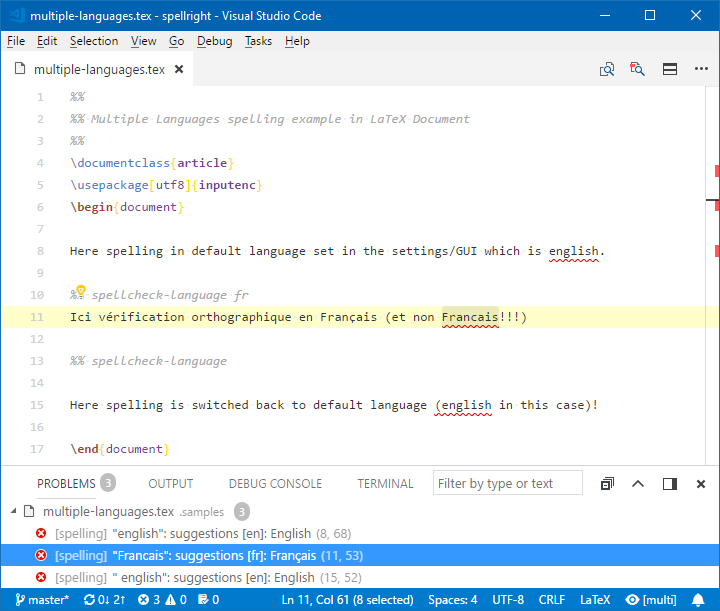
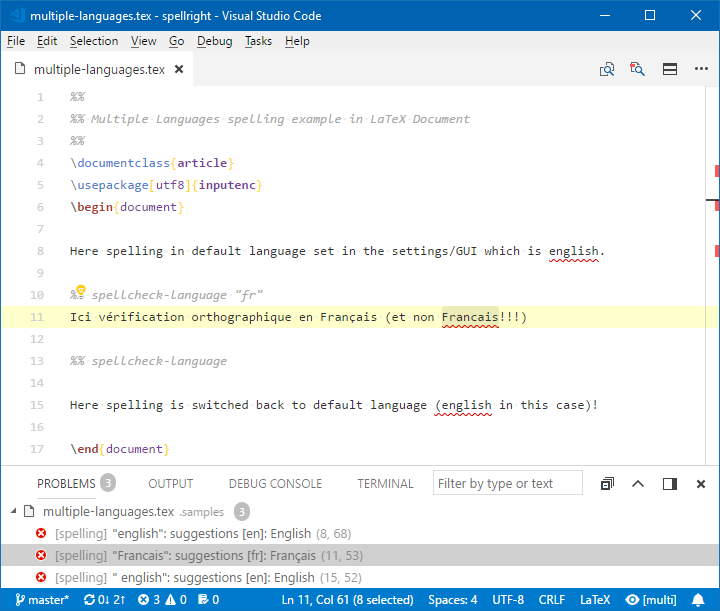
Incorrect dictionary name in block comments (#151)

Changed region(s): [[0.0, 0.8707, 1.0, 0.9329], [0.3056, 0.4664, 0.3667, 0.4975]]

diff --git a/src/spellright.js b/src/spellright.js
@@ -488,8 +488,10 @@ var SpellRight = (function () {
     };
 
     SpellRight.prototype.checkDictionary = function (dictionary) {
-        var result = false;
 
+        if (typeof dictionary === 'undefined') return false;
+
+        var result = false;
         dictionaries.forEach(function (entry) {
             // Adjust for various LANGUAGE-COUNTRY separators ("_" or "-")
             var _dictionary = dictionary.replace(/_/g, '-');
@@ -1075,7 +1077,7 @@ var SpellRight = (function () {
             if (command === 'on') {
                 helpers._commands.force = true;
             }
-            if (command === 'language' && typeof parameters !== 'undefined' && parameters !== '') {
+            if (command === 'language') {
                 if (_this.checkDictionary(parameters)) {
                     helpers._commands.languages.pushIfNotExist(parameters, function (e) {
                         return e === parameters;
@@ -1271,7 +1273,7 @@ var SpellRight = (function () {
             if (command === 'on') {
                 helpers._commands.force = true;
             }
-            if (command === 'language' && typeof parameters !== 'undefined' && parameters !== '') {
+            if (command === 'language') {
                 if (_this.checkDictionary(parameters)) {
                     helpers._commands.languages.pushIfNotExist(parameters, function (e) {
                         return e === parameters;

diff --git a/lib/parser.js b/lib/parser.js
@@ -19,7 +19,7 @@ global.LEXEM_SPELL = /[\s,!\\?\*\/:\[\]\{\}\"\`\+\<\>\;\=\#\$\&\%\^\@\|\~\uff0c\
 //
 // off
 // on
-// language [language|language-region|dictionary]
+// language "[language|language-region|dictionary]"
 //
 // ## Commands TO CONSIDER
 //
@@ -30,16 +30,17 @@ global.LEXEM_SPELL = /[\s,!\\?\*\/:\[\]\{\}\"\`\+\<\>\;\=\#\$\&\%\^\@\|\~\uff0c\
 //
 // Quoting in Markdown: <code>spellcheck&#8208;language&nbsp;en-US</code>
 // -----------------------------------------------------------------------------
-global.COMMAND = /spellcheck[-|:][\s]*([a-zA-Z]+)(?:[ ]*)(.*)$/gm;
+global.COMMAND = /spellcheck(?:-|:[\s]*)([\w]+)\s+\"([^\"]*)\"/g;
 
 // -----------------------------------------------------------------------------
 // Special command form for LaTeX parser to parse LaTeX 'magic comments’.
 // Extracts only one command which allows to change spelling language and is
-// functional equivalent of:
+// functional equivalent of: spellcheck-language "CODE".
 //
-// spellcheck-language [parameter]
+// !TEX spellcheck = "CODE"
+//
 // -----------------------------------------------------------------------------
-global.COMMAND_TEX = /!TEX[\s]+spellcheck[\s]*=[\s]*(.*)/ig;
+global.COMMAND_TEX = /\!TEX[\s]+spellcheck[\s]*\=[\s]*\"([^\"]*)\"/g;
 
 String.prototype.replaceAt = function (index, character) {
     return this.substr(0, index) + character + this.substr(index + character.length);

diff --git a/lib/parsers/latex.js b/lib/parsers/latex.js
@@ -100,6 +100,12 @@ class LaTeX extends Parser.default {
         var re = /\!TEX.*/gi;
         var match;
         while (match = re.exec(text)) {
+
+            // Skip magic comment(s) serviced by the extension
+            var _command_tex = COMMAND_TEX;
+            var _command_tex_m = _command_tex.exec(text);
+            if (_command_tex_m && match.index != _command_tex_m) continue;
+
             var replace = ' '.repeat(match[0].length);
             text = text.replaceAt(match.index, replace);
         }
@@ -148,6 +154,7 @@ class LaTeX extends Parser.default {
         var _command_m = _command.exec(text);
 
         var _command_tex = COMMAND_TEX;
+        _command_tex.lastIndex = 0;
         var _command_tex_m = _command_tex.exec(text);
 
         var context = 'body';

diff --git a/lib/parsers/code.js b/lib/parsers/code.js
@@ -250,8 +250,7 @@ class Standard extends Parser.default {
                     _colcount += _command_m[0].length;
                     _pos += _command_m[0].length;
                     _command.lastIndex = _pos;
-                    if (typeof interpretCommand === "function")
-                        interpretCommand(_command_m[1], _command_m[2], _range);
+                    interpretCommand(_command_m[1], _command_m[2], _range);
                     continue;
                 }
             }

diff --git a/README.md b/README.md
@@ -325,9 +325,9 @@ assigns parser of generic type `code` (Source Code Parser) to `perl` (Perl) docu
 
 Beside global settings following commands can be embedded inside spelled parts of the document (e.g.: comments, strings etc.):
 
-<code>spellcheck&#x2d;language&nbsp;CODE</code> (alternative syntax: <code>spellcheck:&nbsp;language&nbsp;CODE</code> and `!TEX spellcheck = CODE` in comment areas of `latex` document class only)
+<code>spellcheck&#x2d;language&nbsp;"CODE"</code> (alternative syntax: <code>spellcheck:&nbsp;language&nbsp;"CODE"</code> and `!TEX spellcheck = "CODE"` in comment areas of `latex` document class only)
 
-Forces **switching spelling language** for the following part of the document or until next <code>spellcheck&#x2d;language&nbsp;CODE</code> command. `CODE` is language code according to used spellcheck background service, typically in a LANGUAGE or LANGUAGE-COUNTRY format (e.g.: "en", "fr", "en-US", "en-GB", "fr-CA", "pl-PL" etc.) If `CODE` is empty switches **back to default spelling language**.
+Forces **switching spelling language** for the following part of the document or until next <code>spellcheck&#x2d;language&nbsp;"CODE"</code> command. `CODE` is language code according to used spellcheck background service, typically in a LANGUAGE or LANGUAGE-COUNTRY format (e.g.: "en", "fr", "en-US", "en-GB", "fr-CA", "pl-PL" etc.) If `CODE` is empty switches **back to default spelling language**.
 
 In-Document commands for switching spelling language have highest priority over `settings.languageContextByClass` and `settings.languageContext` and `settings.language` configuration items.
 

diff --git a/CHANGELOG.md b/CHANGELOG.md
@@ -1,5 +1,10 @@
 # Change Log
 
+## **2.3.4** released on 7th May 2018
+
+- **Change:** LaTeX 'magic comment' (`!TEX spellcheck = "CODE"`) changed as consequence of ([#151](https://github.com/bartosz-antosik/vscode-spellright/issues/151)) requires language code in double quotes.
+- **Fix:** Incorrect dictionary name in block comments ([#151](https://github.com/bartosz-antosik/vscode-spellright/issues/151)). This changes the syntax of In-Document `spellcheck-language "CODE"` command: the language code/dictionary name has to be in double quotes.
+
 ## **2.3.3** released on 3rd May 2018
 
 - **Fix:** Incorrect spell checking in Markdown fenced code blocks ([#151](https://github.com/bartosz-antosik/vscode-spellright/issues/151)).
